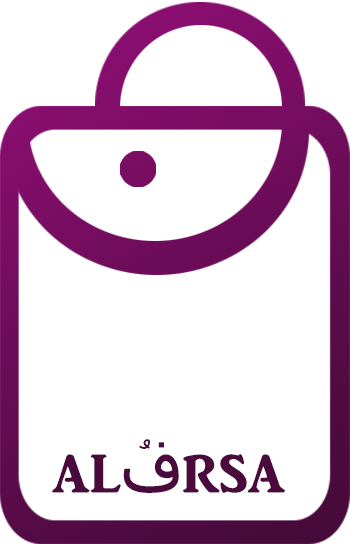
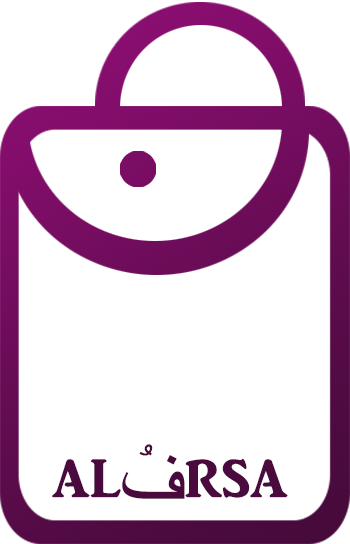
reorganize styles files

Changed region(s): [[0.1429, 0.7812, 0.8286, 0.9375]]

diff --git a/src/scss/style.scss b/src/scss/style.scss
@@ -1,9 +1,3 @@
-@font-face {
-    font-family: logoFont;
-    src: url(../fonts/ARJULIAN.ttf);
-    font-weight: bold;
-}
-
 body {
   font-family: -apple-system, BlinkMacSystemFont, "Segoe UI", Roboto, Oxygen-Sans, Ubuntu, Cantarell, "Helvetica Neue", sans-serif, "Apple Color Emoji", "Segoe UI Emoji", "Segoe UI Symbol";
   font-size: 14px;
@@ -18,171 +12,4 @@ body {
 }
 .errorMessage{
   color: red;
-}
-
-.indexImage{
-  width: 400px;
-  height: 400px;
-}
-
-.icon_dropdown{
-  padding-right: 18px;
-}
-
-
-@media screen and (max-width: 574px){
-  #alfoorsa-override-register-login-row{ flex-direction:column-reverse }
-}
-
-#brand{
-  font-family: logoFont;
-  font-size: 3em;
-  color: #4b0a3e;
-  padding: 0px;
-  margin: 0px;
-}
-
-#brand span#FA{
-  font-size: 1.6em;
-  position: relative;
-  padding-bottom: 0px;
-  padding-top: 0px;
-  line-height: 1px;
-  top: 9px;
-}
-
-/*350x544*/
-.imageIcons{
-  width: 30px;
-  height: 47px;
-  background-image: none ;
-}
-.login-page .new-session-tabs {
-    display: flex;
-    box-shadow: 0 0 0 1px #e5e5e5;
-    border-top-right-radius: 2px;
-    border-top-left-radius: 2px;
-}
-.nav-links {
-    padding: 0;
-    margin: 0;
-    list-style: none;
-    height: auto;
-    border-bottom: 1px solid #e5e5e5;
-}
-.login-page .new-session-tabs li.active {
-    border-bottom: 1px solid #e5e5e5;
-}
-.login-page .new-session-tabs li:first-of-type {
-    border-left: none;
-    border-top-left-radius: 2px;
-}
-.login-page .new-session-tabs li {
-    flex: 1;
-    text-align: center;
-    border-left: 1px solid #e5e5e5;
-}
-.nav-links li {
-    display: inline-block;
-}
-.nav-tabs>li {
-    float: left;
-    margin-bottom: -1px;
-}
-.login-page .new-session-tabs li.active a {
-    border: none;
-    border-bottom: 2px solid #4a8bee;
-    color: #000;
-}
-.login-page .new-session-tabs li a {
-    width: 100%;
-    font-size: 18px;
-    text-decoration: none;
-}
-.nav-links li.active a {
-    border-bottom: 2px solid #4a8bee;
-    color: #000;
-    font-weight: 600;
-}
-.nav-tabs>li.active>a, .nav-tabs>li.active>a:hover, .nav-tabs>li.active>a:focus {
-    color: #555555;
-    background-color: #fff;
-    cursor: default;
-}
-.nav-links li a {
-    display: inline-block;
-    padding: 10px;
-    padding-bottom: 11px;
-    margin-bottom: -1px;
-    font-size: 14px;
-    line-height: 28px;
-    color: rgba(0,0,0,0.55);
-    border-bottom: 2px solid transparent;
-}
-.nav-tabs>li>a {
-    margin-right: 2px;
-    line-height: 1.42857143;
-    border: 1px solid transparent;
-    border-radius: 3px 3px 0 0;
-}
-
-.tab-content {
-    overflow: visible;
-}
-.login-page .login-box, .login-page .omniauth-container {
-    box-shadow: 0 0 0 1px #e5e5e5;
-    border-bottom-right-radius: 2px;
-    border-bottom-left-radius: 2px;
-    padding: 15px;
-}
-.login-page .login-box .login-body, .login-page .omniauth-container .login-body {
-    font-size: 13px;
-}
-.login-page label {
-    font-weight: normal;
-}
-
-.login-page .submit-container {
-    margin-top: 16px;
-}
-.btn.btn-success, .btn.btn-new, .btn.btn-create, .btn.comment-btn, .btn.btn-save {
-    background-color: #3cbd70;
-    border-color: #36aa65;
-    color: #fff;
-}
-.btn.btn-info:hover, .btn.btn-info:focus, .btn.btn-register:hover, .btn.btn-register:focus {
-    background-color: #1a97d5;
-    border-color: #1887be;
-    color: #fff;
-}
-.btn.btn-info, .btn.btn-register {
-    background-color: #2ea8e5;
-    border-color: #1c9dde;
-    color: #fff;
-}
-.btn:hover, .btn:focus {
-    background-color: #f0f0f0;
-    border-color: #e3e3e3;
-    color: rgba(0,0,0,0.85);
-}
-.btn:hover, .btn:focus, .btn.focus {
-    color: rgba(0,0,0,0.85);
-    text-decoration: none;
-}
-.login-page .container {
-    max-width: 960px;
-}
-.navless-container {
-    margin-top: 50px;
-    padding-top: 32px;
-}
-
-.form-control:focus {
-  border-color: rgba(82, 168, 236, 0.8);
-  outline: 0;
-  outline: thin dotted \9;
-  /* IE6-9 */
-  -webkit-box-shadow: inset 0 1px 1px rgba(0,0,0,.075), 0 0 8px rgba(82,168,236,.6);
-  -moz-box-shadow: inset 0 1px 1px rgba(0,0,0,.075), 0 0 8px rgba(82,168,236,.6);
-  box-shadow: inset 0 1px 1px rgba(0,0,0,.075), 0 0 8px rgba(82,168,236,.6);
 }

diff --git a/src/scss/login_register/session.scss b/src/scss/login_register/session.scss
@@ -1,0 +1,137 @@
+.login-page .new-session-tabs {
+    display: flex;
+    box-shadow: 0 0 0 1px #e5e5e5;
+    border-top-right-radius: 2px;
+    border-top-left-radius: 2px;
+}
+.nav-links {
+    padding: 0;
+    margin: 0;
+    list-style: none;
+    height: auto;
+    border-bottom: 1px solid #e5e5e5;
+}
+.login-page .new-session-tabs li.active {
+    border-bottom: 1px solid #e5e5e5;
+}
+.login-page .new-session-tabs li:first-of-type {
+    border-left: none;
+    border-top-left-radius: 2px;
+}
+.login-page .new-session-tabs li {
+    flex: 1;
+    text-align: center;
+    border-left: 1px solid #e5e5e5;
+}
+.nav-links li {
+    display: inline-block;
+}
+.nav-tabs>li {
+    float: left;
+    margin-bottom: -1px;
+}
+.login-page .new-session-tabs li.active a {
+    border: none;
+    border-bottom: 2px solid #4a8bee;
+    color: #000;
+}
+.login-page .new-session-tabs li a {
+    width: 100%;
+    font-size: 18px;
+    text-decoration: none;
+}
+.nav-links li.active a {
+    border-bottom: 2px solid #4a8bee;
+    color: #000;
+    font-weight: 600;
+}
+.nav-tabs>li.active>a, .nav-tabs>li.active>a:hover, .nav-tabs>li.active>a:focus {
+    color: #555555;
+    background-color: #fff;
+    cursor: default;
+}
+.nav-links li a {
+    display: inline-block;
+    padding: 10px;
+    padding-bottom: 11px;
+    margin-bottom: -1px;
+    font-size: 14px;
+    line-height: 28px;
+    color: rgba(0,0,0,0.55);
+    border-bottom: 2px solid transparent;
+}
+.nav-tabs>li>a {
+    margin-right: 2px;
+    line-height: 1.42857143;
+    border: 1px solid transparent;
+    border-radius: 3px 3px 0 0;
+}
+
+.tab-content {
+    overflow: visible;
+}
+.login-page .login-box, .login-page .omniauth-container {
+    box-shadow: 0 0 0 1px #e5e5e5;
+    border-bottom-right-radius: 2px;
+    border-bottom-left-radius: 2px;
+    padding: 15px;
+}
+.login-page .login-box .login-body, .login-page .omniauth-container .login-body {
+    font-size: 13px;
+}
+.login-page label {
+    font-weight: normal;
+}
+
+.login-page .submit-container {
+    margin-top: 16px;
+}
+.btn.btn-success, .btn.btn-new, .btn.btn-create, .btn.comment-btn, .btn.btn-save {
+    background-color: #3cbd70;
+    border-color: #36aa65;
+    color: #fff;
+}
+.btn.btn-info:hover, .btn.btn-info:focus, .btn.btn-register:hover, .btn.btn-register:focus {
+    background-color: #1a97d5;
+    border-color: #1887be;
+    color: #fff;
+}
+.btn.btn-info, .btn.btn-register {
+    background-color: #2ea8e5;
+    border-color: #1c9dde;
+    color: #fff;
+}
+.btn:hover, .btn:focus {
+    background-color: #f0f0f0;
+    border-color: #e3e3e3;
+    color: rgba(0,0,0,0.85);
+}
+.btn:hover, .btn:focus, .btn.focus {
+    color: rgba(0,0,0,0.85);
+    text-decoration: none;
+}
+.login-page .container {
+    max-width: 960px;
+}
+.navless-container {
+    margin-top: 50px;
+    padding-top: 32px;
+}
+
+.form-control:focus {
+  border-color: rgba(82, 168, 236, 0.8);
+  outline: 0;
+  outline: thin dotted \9;
+  /* IE6-9 */
+  -webkit-box-shadow: inset 0 1px 1px rgba(0,0,0,.075), 0 0 8px rgba(82,168,236,.6);
+  -moz-box-shadow: inset 0 1px 1px rgba(0,0,0,.075), 0 0 8px rgba(82,168,236,.6);
+  box-shadow: inset 0 1px 1px rgba(0,0,0,.075), 0 0 8px rgba(82,168,236,.6);
+}
+
+@media screen and (max-width: 574px){
+  #alfoorsa-override-register-login-row{ flex-direction:column-reverse }
+}
+.indexImage{
+  width: 400px;
+  height: 400px;
+}

diff --git a/src/scss/navbar/navbar.scss b/src/scss/navbar/navbar.scss
@@ -1,0 +1,26 @@
+@font-face {
+    font-family: logoFont;
+    src: url(../fonts/ARJULIAN.ttf);
+    font-weight: bold;
+}
+
+#brand{
+  font-family: logoFont;
+  font-size: 3em;
+  color: #4b0a3e;
+  padding: 0px;
+  margin: 0px;
+}
+
+#brand span#FA{
+  font-size: 1.6em;
+  position: relative;
+  padding-bottom: 0px;
+  padding-top: 0px;
+  line-height: 1px;
+  top: 11px;
+}
+
+.icon_dropdown{
+  padding-right: 18px;
+}
